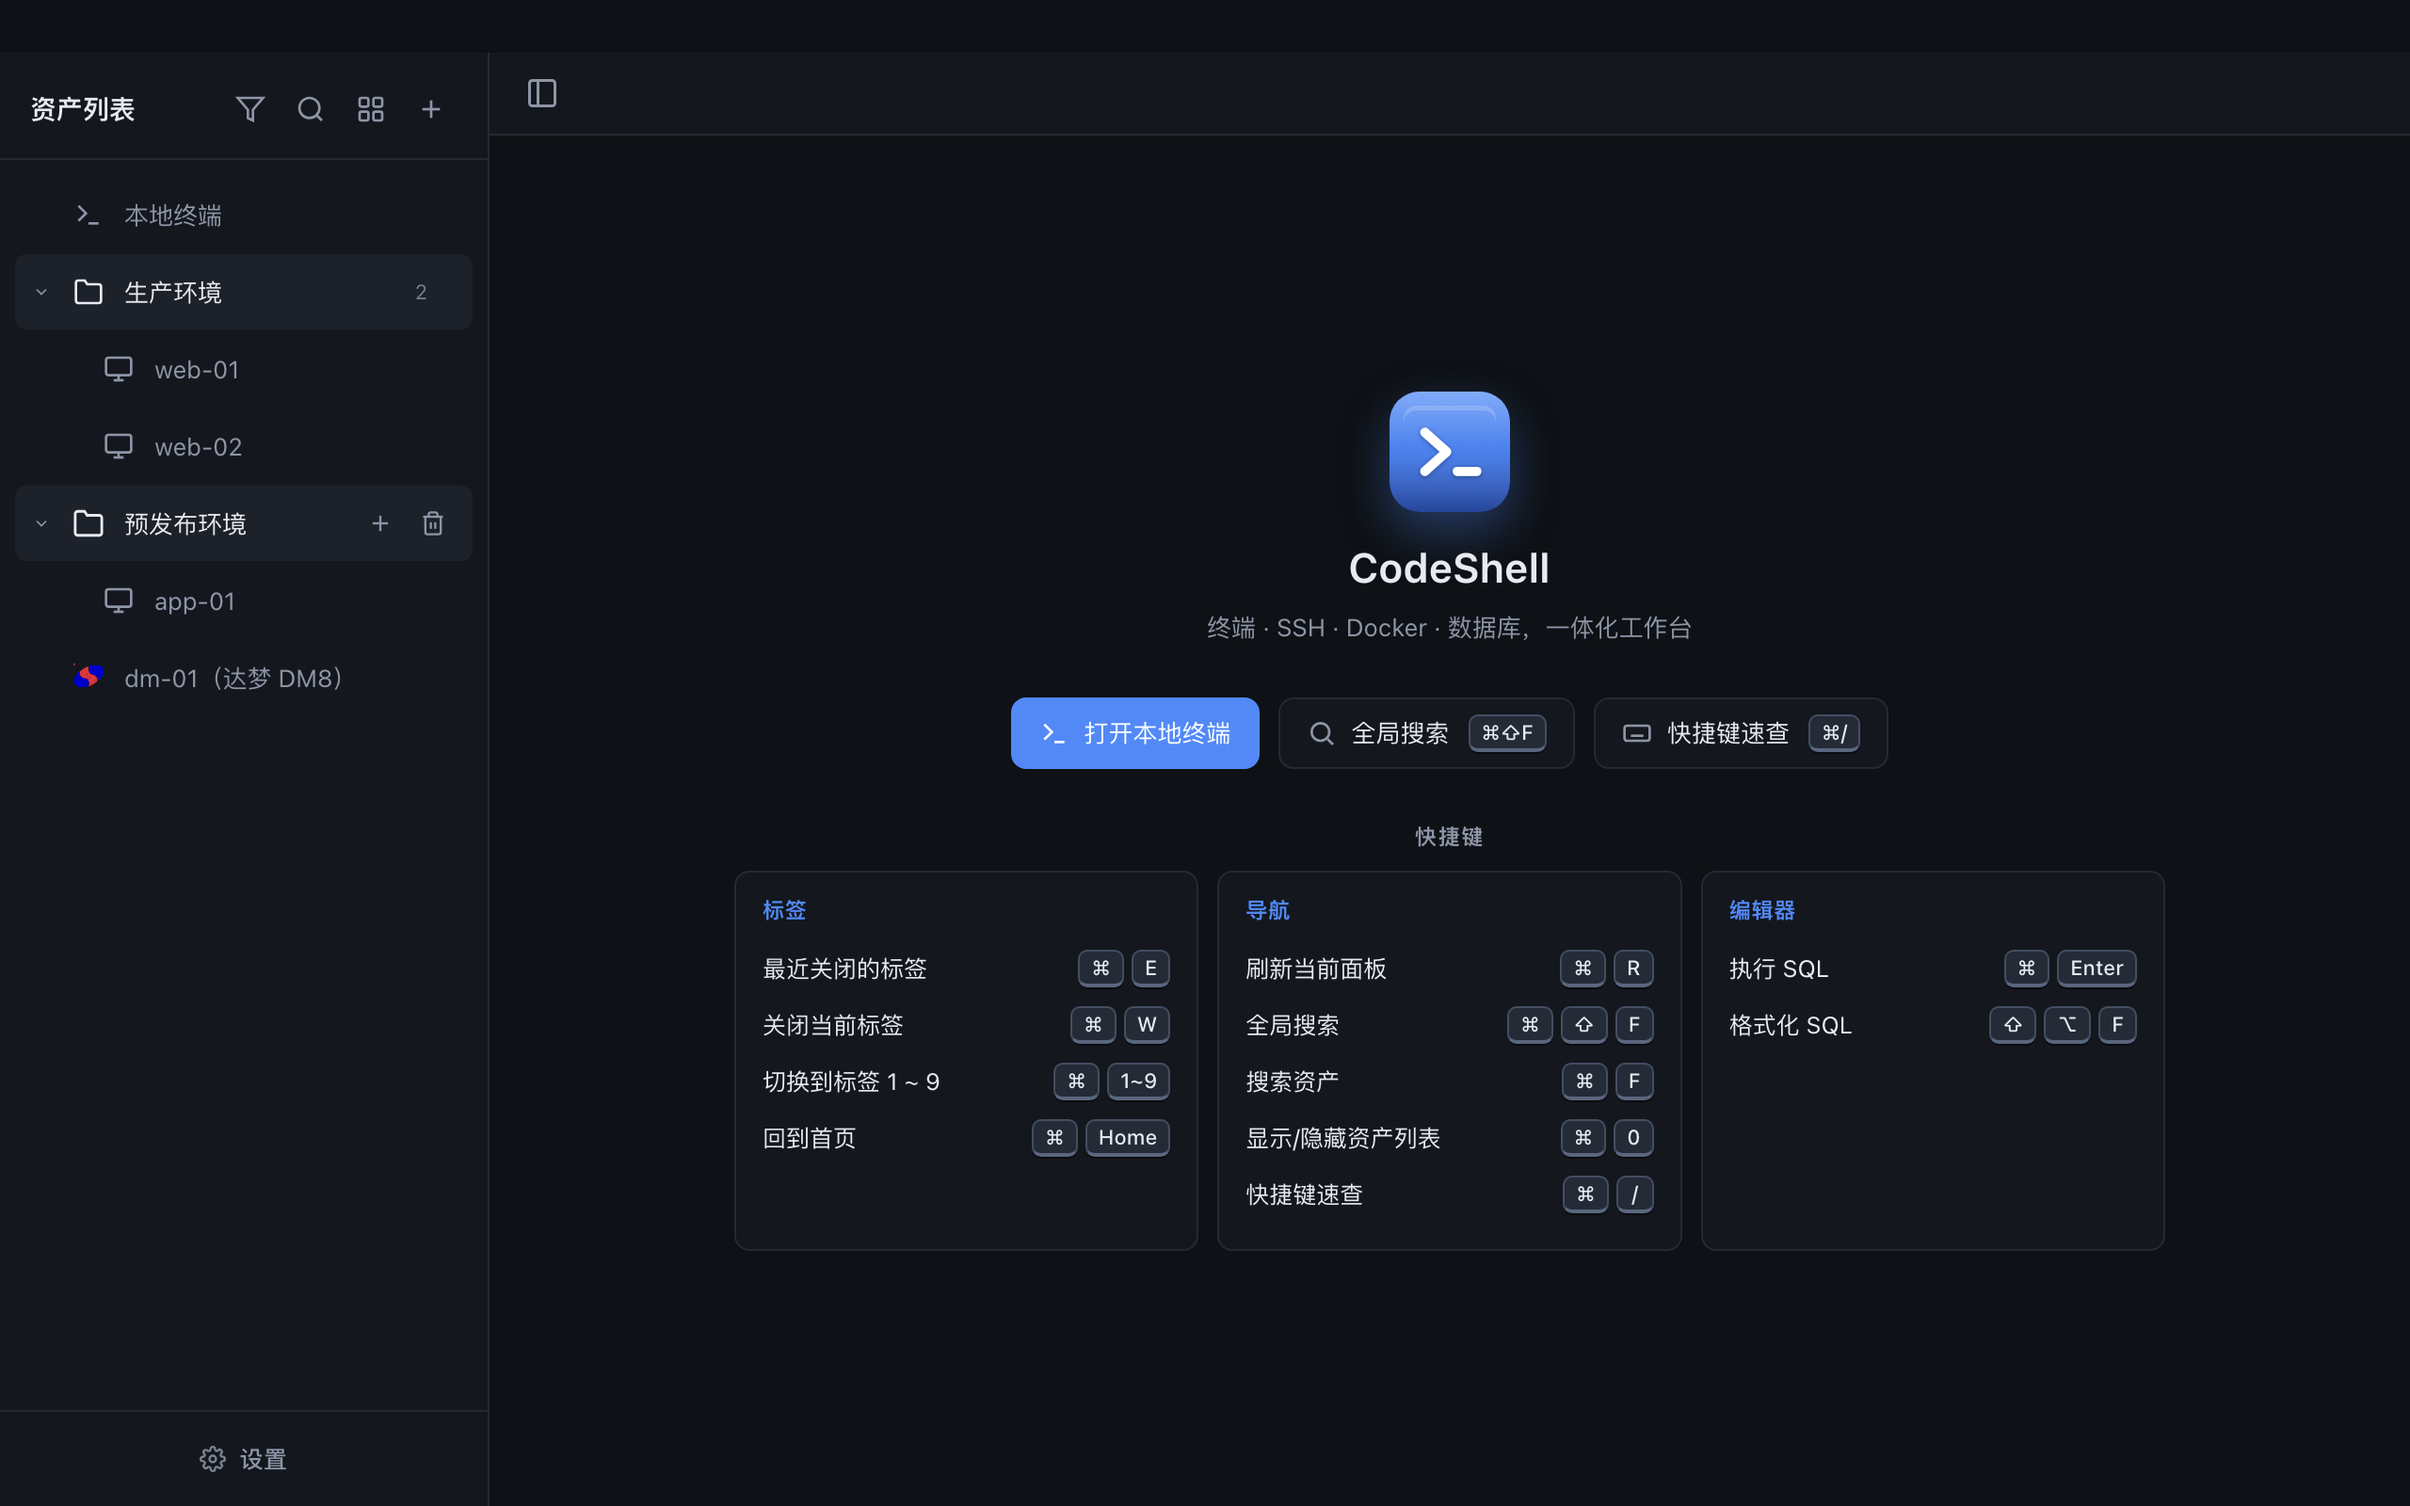
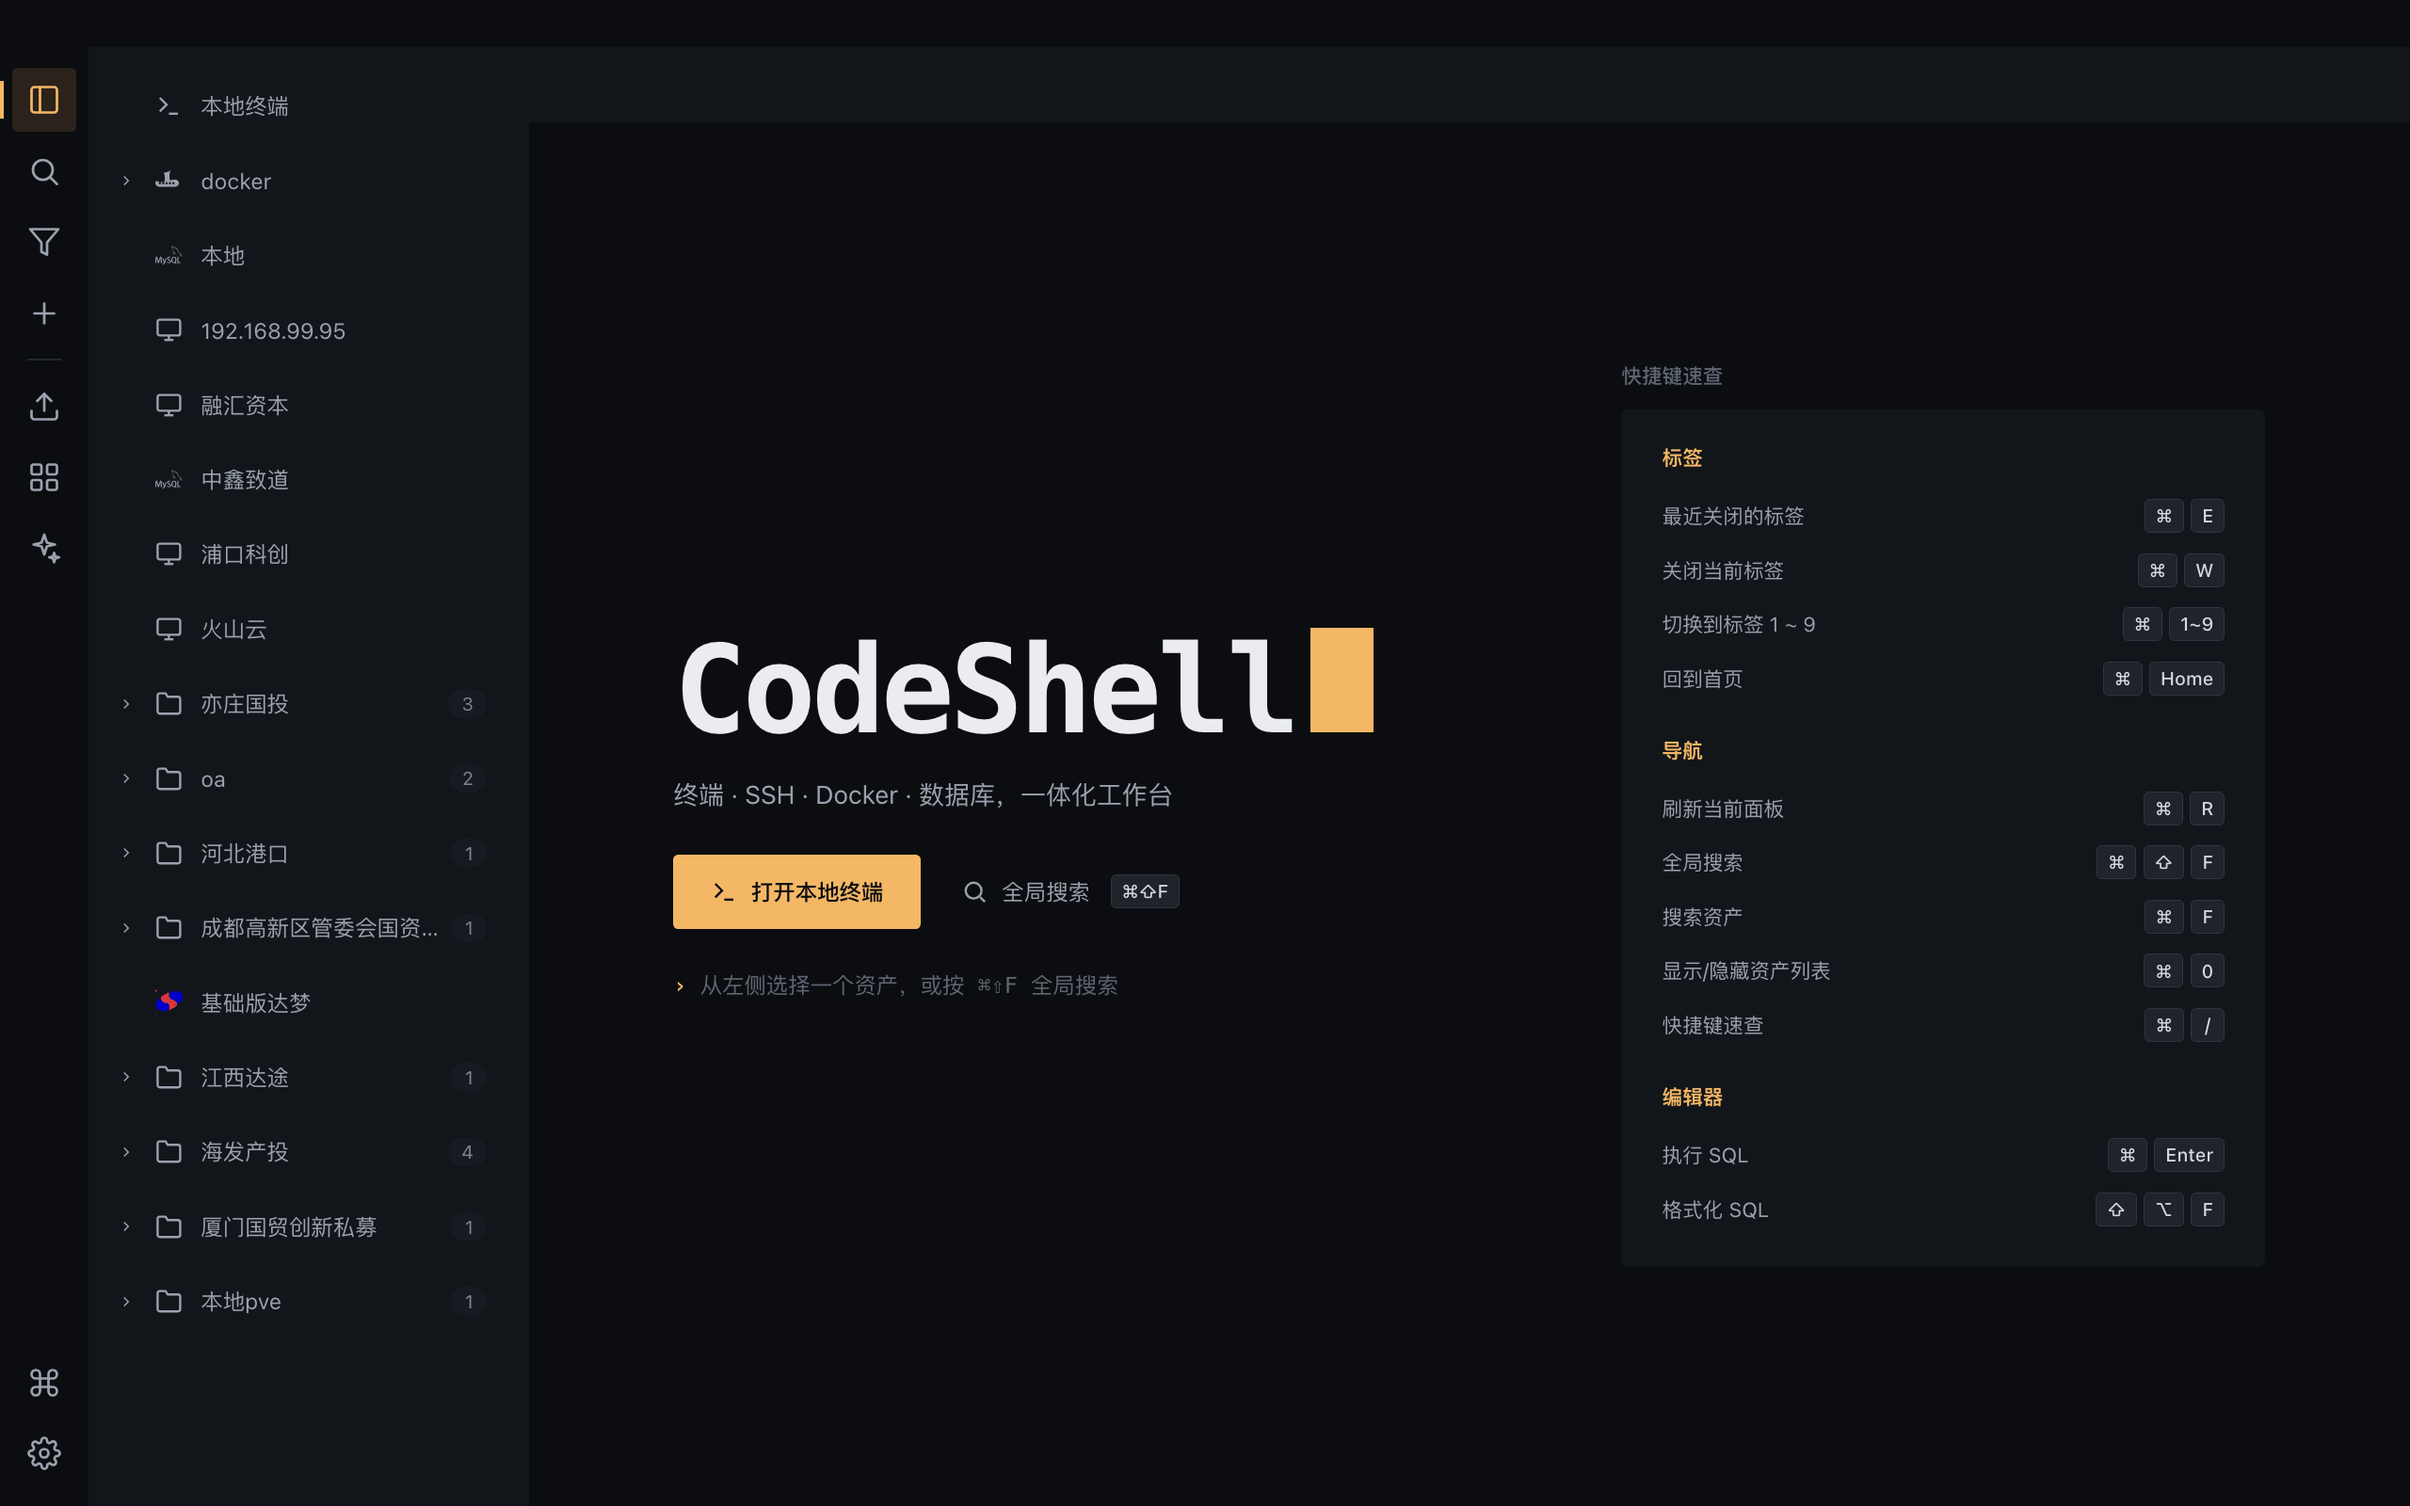
docs: 全部截图更换为新版界面（琥珀终端），补全 v1.20.0 / v1.20.1 更新日志，徽章升到 1.20.1

diff --git a/CHANGELOG.md b/CHANGELOG.md
@@ -2,6 +2,40 @@
 
 版本号遵循 [语义化版本](https://semver.org/lang/zh-CN/)：新功能 +0.1.0、修复/样式 +0.0.1、不兼容改动 +1.0.0。
 
+## v1.20.1
+
+### 修复
+
+- **AI 助手打开后对话"消失"**：如果上一次会话留下的是「执行」记录（运维任务），打开面板默认落在「对话」模式，这些记录全被过滤、只剩一条错误提示，看起来像对话丢了。现在按内容自动选择模式 —— 全是执行记录时直接进入「执行」模式，历史任务一览无余。
+- **SQL 编辑器抽屉打开时是空白**：点表自动生成的查询语句停留在编辑器外（编辑器随抽屉按需加载，打开瞬间没接住已有的语句）。现在打开即带入当前语句。
+
+## v1.20.0
+
+### 全新界面（琥珀终端）
+
+- **全站视觉重做**：墨色底 + 琥珀信号色，方角、色阶分层、统一动效语言。五套主题（深色 / 浅色 / 霓虹 / 暖色 / 纸感）全部重调，正文对比度全部 ≥ 4.5:1。
+- **左侧导航轨**：资产列表、搜索、筛选、添加、文件传输、批量运维、AI 助手、快捷键、设置收进一条竖轨；资产列表头部不再重复放按钮。
+- **首页重做**：大标题 + 闪烁光标，右栏快捷键速查，操作入口错峰入场。
+- **页签滑动指示条**：切换标签时指示条平滑滑动。
+
+### 数据库
+
+- **SQL 编辑器改为底部抽屉**：打开数据库默认看数据表（点表即查），点右上角「SQL」拉出底部抽屉，语句与结果上下对照。
+- **查询结果导出支持 SQL**：导出弹窗新增 SQL 格式（INSERT 语句，可在目标库直接执行还原），自动适配各数据库的引号与转义方言；表/库数据导出同步修复方言问题。
+- **Monaco 编辑器五套琥珀主题**。
+
+### AI 助手
+
+- **面板双位置**：右侧竖向抽屉 / 底部横向面板一键切换（面板头部按钮或设置里选默认位置），拖边缘调尺寸。
+- **头部精简**：独立窗口、归档、导出收进「⋯」菜单。
+- **对话持久化修复**：补齐两处会覆盖历史对话的隐患（空内容不再覆盖、切换库不再串写）。
+
+### 其他
+
+- 上传弹窗重做（拖放 / 进度两态互斥，大号百分比）。
+- 设置、批量运维、AI 助手页面全部重写。
+- 全项目样式去重整理。
+
 ## v1.19.0
 
 ### 新增

diff --git a/README.md b/README.md
@@ -5,7 +5,7 @@
   <p>
     <img alt="platform" src="https://img.shields.io/badge/platform-macOS%20%7C%20Windows-3e8bff" />
     <img alt="electron" src="https://img.shields.io/badge/Electron-30-47848f" />
-    <img alt="version" src="https://img.shields.io/badge/version-1.19.0-00b894" />
+    <img alt="version" src="https://img.shields.io/badge/version-1.20.1-00b894" />
     <img alt="license" src="https://img.shields.io/badge/license-Proprietary-lightgrey" />
   </p>
 </div>
